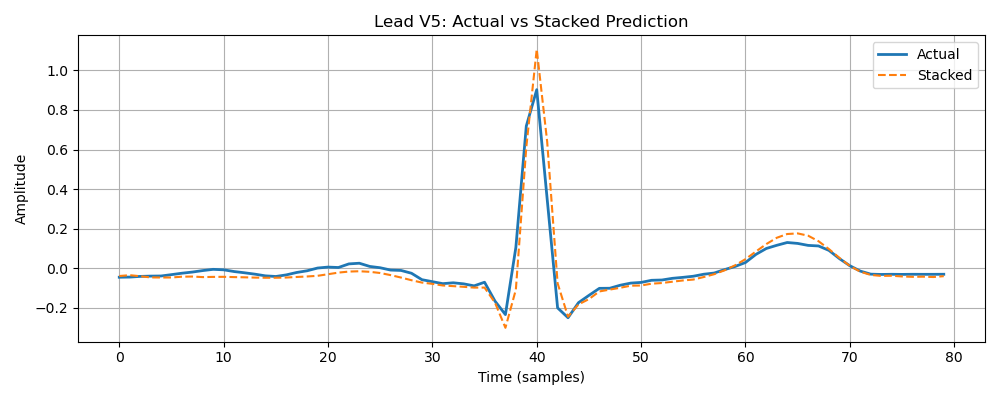
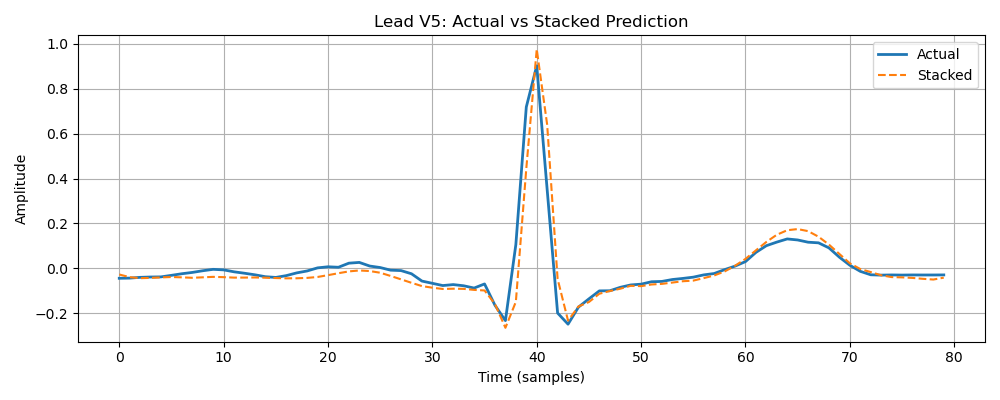
Critical slope features added and the results are much better now

diff --git a/QRS_to_Multilead_Reconstruction/PQRST_80_Extractor.py b/QRS_to_Multilead_Reconstruction/PQRST_80_Extractor.py
@@ -31,6 +31,7 @@ if encoded_feats_path.exists():
     with open(encoded_feats_path, 'r') as f:
         encoded_features = [line.strip() for line in f.readlines()]
 
+# --- Feature Extraction Functions ---
 def extract_stat_features(segment):
     hist, _ = np.histogram(segment, bins=10, density=True)
     return {
@@ -54,6 +55,31 @@ def extract_freq_features(segment, fs=100):
         'psd_total': psd_sum,
         'dominant_freq': dom_freq,
         'wavelet_energy': wavelet_energy
+    }
+
+def extract_slope_features(segment, fs=100):
+    """Compute slope-based features using first derivative"""
+    # Calculate first derivative (slope)
+    dx = 1.0 / fs
+    slope = np.diff(segment) / dx
+    
+    # Critical slope points
+    max_slope = np.max(slope)
+    min_slope = np.min(slope)
+    mean_slope = np.mean(slope)
+    zero_crossings = len(np.where(np.diff(np.sign(slope)))[0])
+    
+    # Slope between critical points
+    qrs_slope = (segment[20] - segment[0]) / (20 * dx) if len(segment) > 20 else 0
+    st_slope = (segment[-1] - segment[40]) / ((len(segment)-41) * dx) if len(segment) > 40 else 0
+    
+    return {
+        'max_slope': max_slope,
+        'min_slope': min_slope,
+        'mean_slope': mean_slope,
+        'zero_crossings': zero_crossings,
+        'qrs_slope': qrs_slope,
+        'st_slope': st_slope
     }
 
 def find_qspt(signal, r_peaks, sampling_rate):
@@ -82,7 +108,7 @@ def find_qspt(signal, r_peaks, sampling_rate):
 def compute_area(signal, start, end):
     if start is None or end is None or end <= start:
         return np.nan
-    return np.trapz(signal[start:end], dx=1.0/sampling_rate)
+    return np.trapz(signal[int(start):int(end)], dx=1.0/sampling_rate)
 
 def compute_duration(start, end):
     if start is None or end is None or end <= start:
@@ -114,7 +140,7 @@ def collect_amplitude_statistics(ecg_dataset, meta_df):
         p_i, q_i, r_i, s_i, t_i = find_qspt(lead_i, r_i, sampling_rate)
         p_ii, q_ii, r_ii, s_ii, t_ii = find_qspt(lead_ii, r_ii, sampling_rate)
         p_v2, q_v2, r_v2, s_v2, t_v2 = find_qspt(lead_v2, r_v2, sampling_rate)
-        p_v3, q_v3, r_v3, s_v3, t_v3 = find_qspt(lead_v3, r_v3, sampling_rate)
+        p_v3, q_v3, r_v3, s_v3, t极3 = find_qspt(lead_v3, r_v3, sampling_rate)
 
         for j in range(1, len(r_i)):
             r = r_i[j]
@@ -152,15 +178,14 @@ def collect_amplitude_statistics(ecg_dataset, meta_df):
             'std': std,
             'lower_bound': mean - 3 * std,
             'upper_bound': mean + 3 * std
-
         }
-        print(f"{wave}-wave: Mean={mean:.3f}, Std={std:.3f}, Range=[{mean-2*std:.3f}, {mean+2*std:.3f}]")
+        print(f"{wave}-wave: Mean={mean:.3f}, Std={std:.3f}, Range=[{mean-3*std:.3f}, {mean+3*std:.3f}]")
     
     return amplitude_stats
 
 def build_dataset_with_stats(ecg_dataset, meta_df, amplitude_stats):
-    """Second pass: build dataset with outlier filtering"""
-    print("\n🔧 Second pass: Building dataset with outlier filtering...")
+    """Second pass: build dataset with outlier filtering and slope features"""
+    print("\n🔧 Second pass: Building dataset with outlier filtering and slope features...")
     dataset = []
     total_segments_processed = 0
     segments_filtered_by_amplitude = 0
@@ -234,18 +259,24 @@ def build_dataset_with_stats(ecg_dataset, meta_df, amplitude_stats):
             segment_ii = lead_ii[start:end]
             segment_v2 = lead_v2[start:end]
 
+            # --- Extract features ---
             stats_i = extract_stat_features(segment_i)
             stats_ii = extract_stat_features(segment_ii)
             stats_v2 = extract_stat_features(segment_v2)
+            
             freq_i = extract_freq_features(segment_i, fs=sampling_rate)
             freq_ii = extract_freq_features(segment_ii, fs=sampling_rate)
             freq_v2 = extract_freq_features(segment_v2, fs=sampling_rate)
+            
+            # --- NEW: Slope features ---
+            slope_i = extract_slope_features(segment_i, fs=sampling_rate)
+            slope_ii = extract_slope_features(segment_ii, fs=sampling_rate)
+            slope_v2 = extract_slope_features(segment_v2, fs=sampling_rate)
 
             rr1 = (r_i[j] - r_i[j - 1]) / sampling_rate
             rr2 = (r_ii[r_ii_idx] - r_ii[r_ii_idx - 1]) / sampling_rate if r_ii_idx > 0 else 0
             rr3 = (r_v2[r_v2_idx] - r_v2[r_v2_idx - 1]) / sampling_rate if r_v2_idx > 0 else 0
 
-            # QRS area and duration
             qrs_area_i = compute_area(lead_i, q_i[j], s_i[j])
             qrs_area_ii = compute_area(lead_ii, q_ii[r_ii_idx], s_ii[r_ii_idx])
             qrs_area_v2 = compute_area(lead_v2, q_v2[r_v2_idx], s_v2[r_v2_idx])
@@ -256,16 +287,15 @@ def build_dataset_with_stats(ecg_dataset, meta_df, amplitude_stats):
             t_area_ii = compute_area(lead_ii, s_ii[r_ii_idx], t_ii[r_ii_idx])
             t_area_v2 = compute_area(lead_v2, s_v2[r_v2_idx], t_v2[r_v2_idx])
 
-            # --- NaN/Inf check: skip if any feature is NaN or Inf ---
+            # --- Feature validation ---
             features_to_check = [
                 qrs_area_i, qrs_area_ii, qrs_area_v2,
                 qrs_dur_i, qrs_dur_ii, qrs_dur_v2,
                 t_area_i, t_area_ii, t_area_v2,
                 rr1, rr2, rr3
-            ]
-            stats_list = list(stats_i.values()) + list(stats_ii.values()) + list(stats_v2.values())
-            freq_list = list(freq_i.values()) + list(freq_ii.values()) + list(freq_v2.values())
-            features_to_check += stats_list + freq_list
+            ] + list(stats_i.values()) + list(stats_ii.values()) + list(stats_v2.values()) + \
+                list(freq_i.values()) + list(freq_ii.values()) + list(freq_v2.values()) + \
+                list(slope_i.values()) + list(slope_ii.values()) + list(slope_v2.values())
 
             if any(np.isnan(f) or np.isinf(f) for f in features_to_check):
                 segments_filtered_by_nan += 1
@@ -307,6 +337,10 @@ def build_dataset_with_stats(ecg_dataset, meta_df, amplitude_stats):
                 "freq_lead_I": freq_i,
                 "freq_lead_II": freq_ii,
                 "freq_lead_V2": freq_v2,
+                # --- NEW: Slope features ---
+                "slope_lead_I": slope_i,
+                "slope_lead_II": slope_ii,
+                "slope_lead_V2": slope_v2,
                 "other_leads": other_leads_waveforms,
                 "age": age,
                 "sex": sex,
@@ -347,4 +381,4 @@ if __name__ == "__main__":
     print(f"\n✅ Final Results:")
     print(f"Training dataset: {len(train_set)} segments")
     print(f"Test dataset: {len(test_set)} segments")
-    print("Done with V2-based PQRST dataset including QRS/T area and duration features!")
+    print("Done with enhanced PQRST dataset including QRS/T area, duration, and slope features!")

diff --git a/QRS_to_Multilead_Reconstruction/Ensemble_Model.py b/QRS_to_Multilead_Reconstruction/Ensemble_Model.py
@@ -65,7 +65,7 @@ def extract_features_and_targets(data, target_lead):
                 aq3, ar3, as3, at3
             ]
 
-            # --- New QRS/T features ---
+            # --- QRS/T features ---
             qrs_t_features = [
                 seg.get("qrs_area_I", 0),
                 seg.get("qrs_area_II", 0),
@@ -77,6 +77,16 @@ def extract_features_and_targets(data, target_lead):
                 seg.get("t_area_II", 0),
                 seg.get("t_area_V2", 0)
             ]
+
+            # --- Slope features ---
+            slope_i = seg.get("slope_lead_I", {})
+            slope_ii = seg.get("slope_lead_II", {})
+            slope_v2 = seg.get("slope_lead_V2", {})
+            slope_features = (
+                list(slope_i.values()) +
+                list(slope_ii.values()) +
+                list(slope_v2.values())
+            )
 
             # --- Demographics ---
             age = seg.get("age", 0)
@@ -100,12 +110,13 @@ def extract_features_and_targets(data, target_lead):
 
             # --- Combined feature vector ---
             features = (
-                intervals + 
-                amplitudes + 
-                qrs_t_features + 
-                [age, sex, hr] + 
-                onehot_values + 
-                stats_features + 
+                intervals +
+                amplitudes +
+                qrs_t_features +
+                slope_features +
+                [age, sex, hr] +
+                onehot_values +
+                stats_features +
                 freq_features
             )
 
